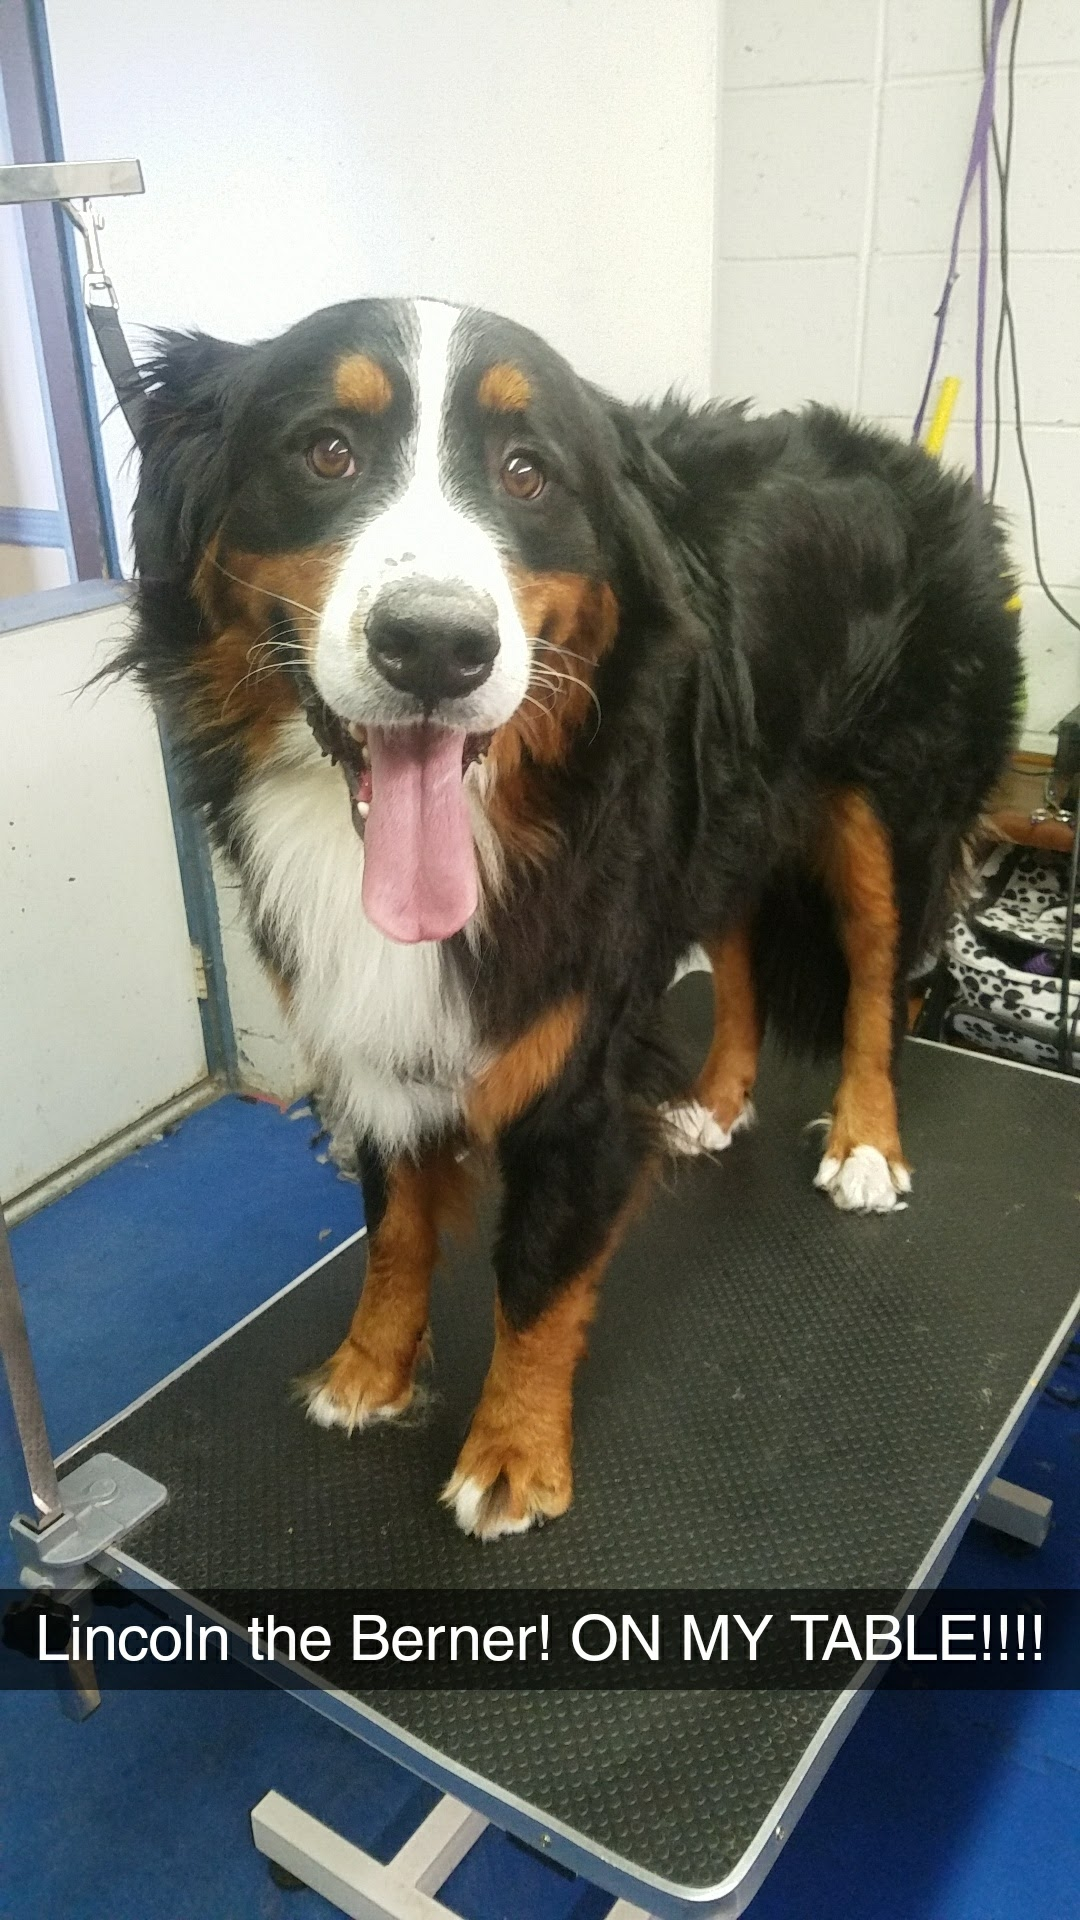
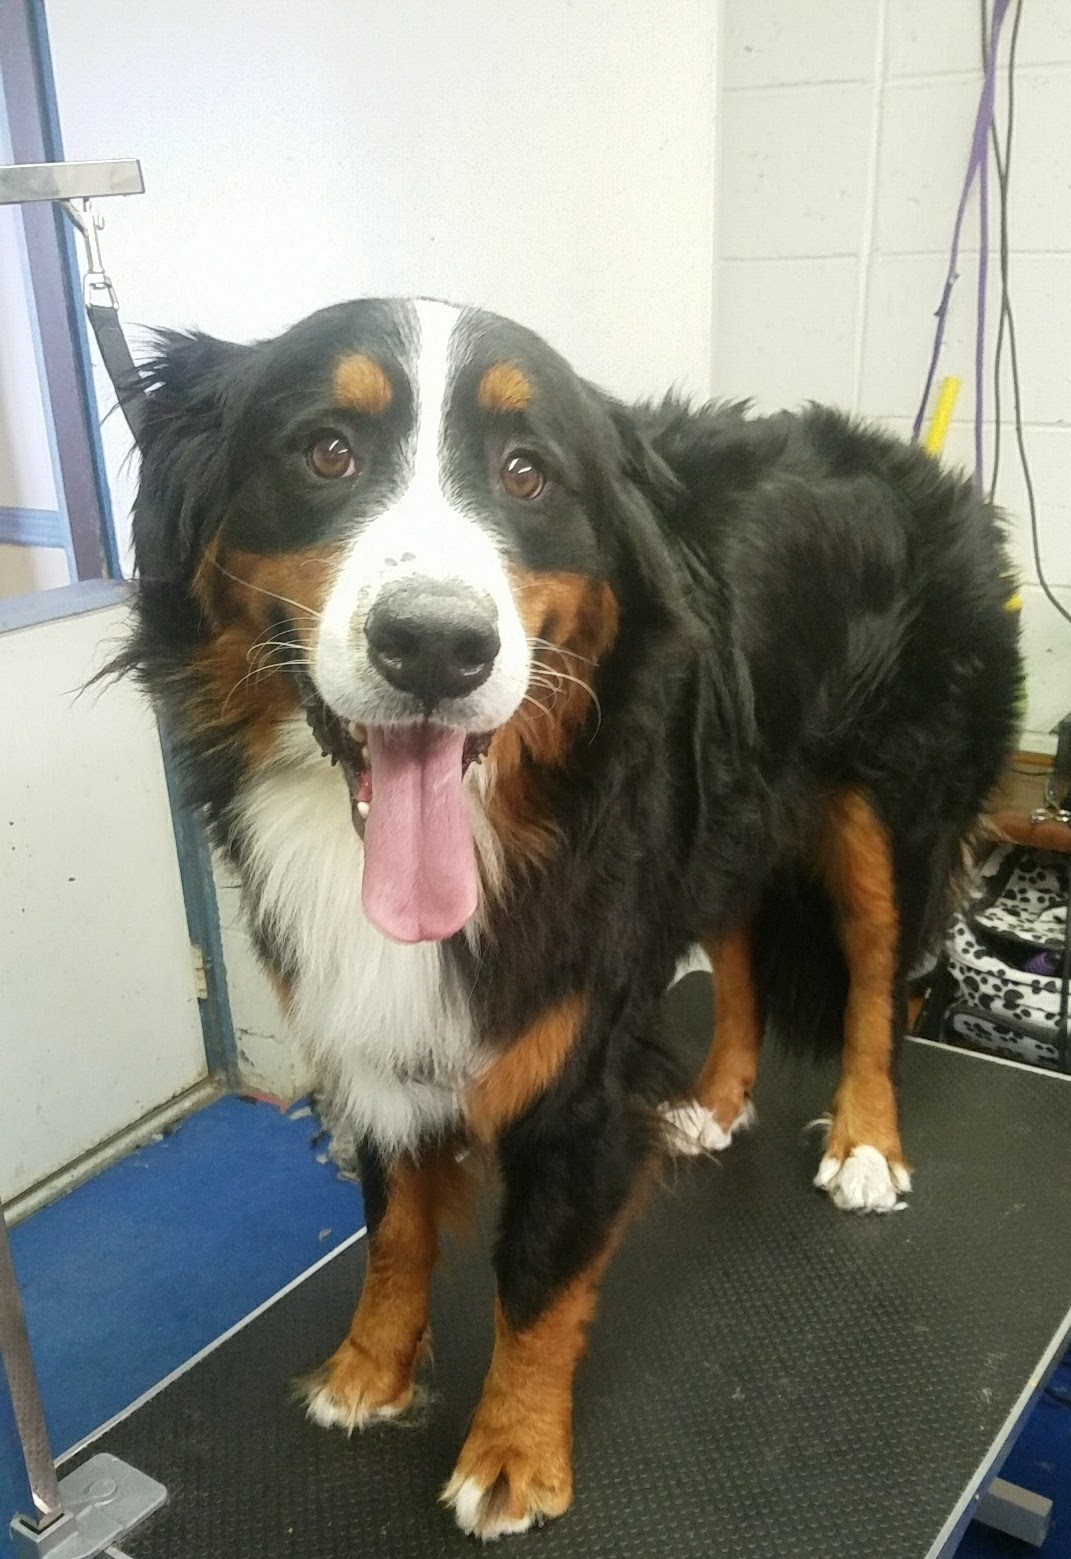
updated 2 dog photos to remove text. updated title in about to have Jenn Joyce on one line

diff --git a/src/homepage/homepage.js b/src/homepage/homepage.js
@@ -10,14 +10,14 @@ class Homepage extends Component {
                         To create the "Zen" experience for everyone, whether the grooming is done at a home or in a shop, there are a few elements
                         that go into the "Zen" experience. For the best experience possible for you and your furry friend we use aromatherapy, 
                         dim lighting and gentle relaxation music playing throughout the whole visit.
-                        We keep our standards high and everyone's anxiety low with great communication about the options available for your dog's coat.
+                        We keep our standards high and everyone's anxiety low with great communication about the options available for your pet's coat.
                         Working together to accomplish how you want your best furry friend to look and feel is what Infinite Zen Room Grooming is all about.                         
                     </p>
                 </section>
 
                 <section className="links">
                     <div className="dogGrooming">
-                        <Link to="/grooming">Dog Grooming</Link>
+                        <Link to="/grooming">Pet Grooming</Link>
                     </div>
                     <div className="petService">
                         <Link to="/additionalservices">Pet Services</Link>

diff --git a/src/about/about.js b/src/about/about.js
@@ -2,10 +2,31 @@ import React, { Component } from 'react';
 import ProfilePic from '../assests/images/profile.png'
 
 class About extends Component {
+    constructor(props) {
+        super(props);
+        this.state = {
+          isSmallScreen: false
+        }
+      }
+    
+      componentDidMount() {
+        let mediaQuery = window.matchMedia('(max-width: 400px)');
+    
+        if(mediaQuery.matches) {
+          this.setState({
+            isSmallScreen: true
+          })
+        }
+      }
     render() {
+        const {isSmallScreen} = this.state;
         return (
             <section className="about">
-                <h1>Get to know Jenn Joyce!</h1>
+                <h1>Get to know {' '}
+                    {isSmallScreen && (
+                        <br/>
+                    )}
+                     Jenn Joyce!</h1>
                 <img src={ProfilePic} alt="Jennifer Joyce" />
                 <p>As an animal lover of all shapes and sizes, Jenn has years of experience and has developed a passion working with dogs  since she was very young.
                 Participating in many dog obedience classes, agility, canine good citizen, showmanship and doga classes she has become well versed in dog behavior.

diff --git a/public/index.html b/public/index.html
@@ -7,7 +7,7 @@
     <meta name="theme-color" content="#000000" />
     <meta
       name="description"
-      content="Web site created using create-react-app"
+      content="Infinite Zen Room Grooming"
     />
     <link rel="apple-touch-icon" href="%PUBLIC_URL%/logo192.png" />
     <!--
@@ -24,7 +24,7 @@
       work correctly both with client-side routing and a non-root public URL.
       Learn how to configure a non-root public URL by running `npm run build`.
     -->
-    <title>React App</title>
+    <title>Infinite Zen Room Grooming</title>
   </head>
   <body>
     <noscript>You need to enable JavaScript to run this app.</noscript>

diff --git a/src/gallary/images.js b/src/gallary/images.js
@@ -75,14 +75,6 @@ const ImageData = [
     },
     {
         text: 'Default Alt Text',
-        image: Dog22
-    },
-    {
-        text: 'Default Alt Text',
-        image: Dog23
-    },
-    {
-        text: 'Default Alt Text',
         image: Dog24
     },
     {
@@ -92,6 +84,14 @@ const ImageData = [
     {
         text: 'Default Alt Text',
         image: Dog12
+    },
+    {
+        text: 'Default Alt Text',
+        image: Dog22
+    },
+    {
+        text: 'Default Alt Text',
+        image: Dog23
     },
     {
         text: 'Default Alt Text',
